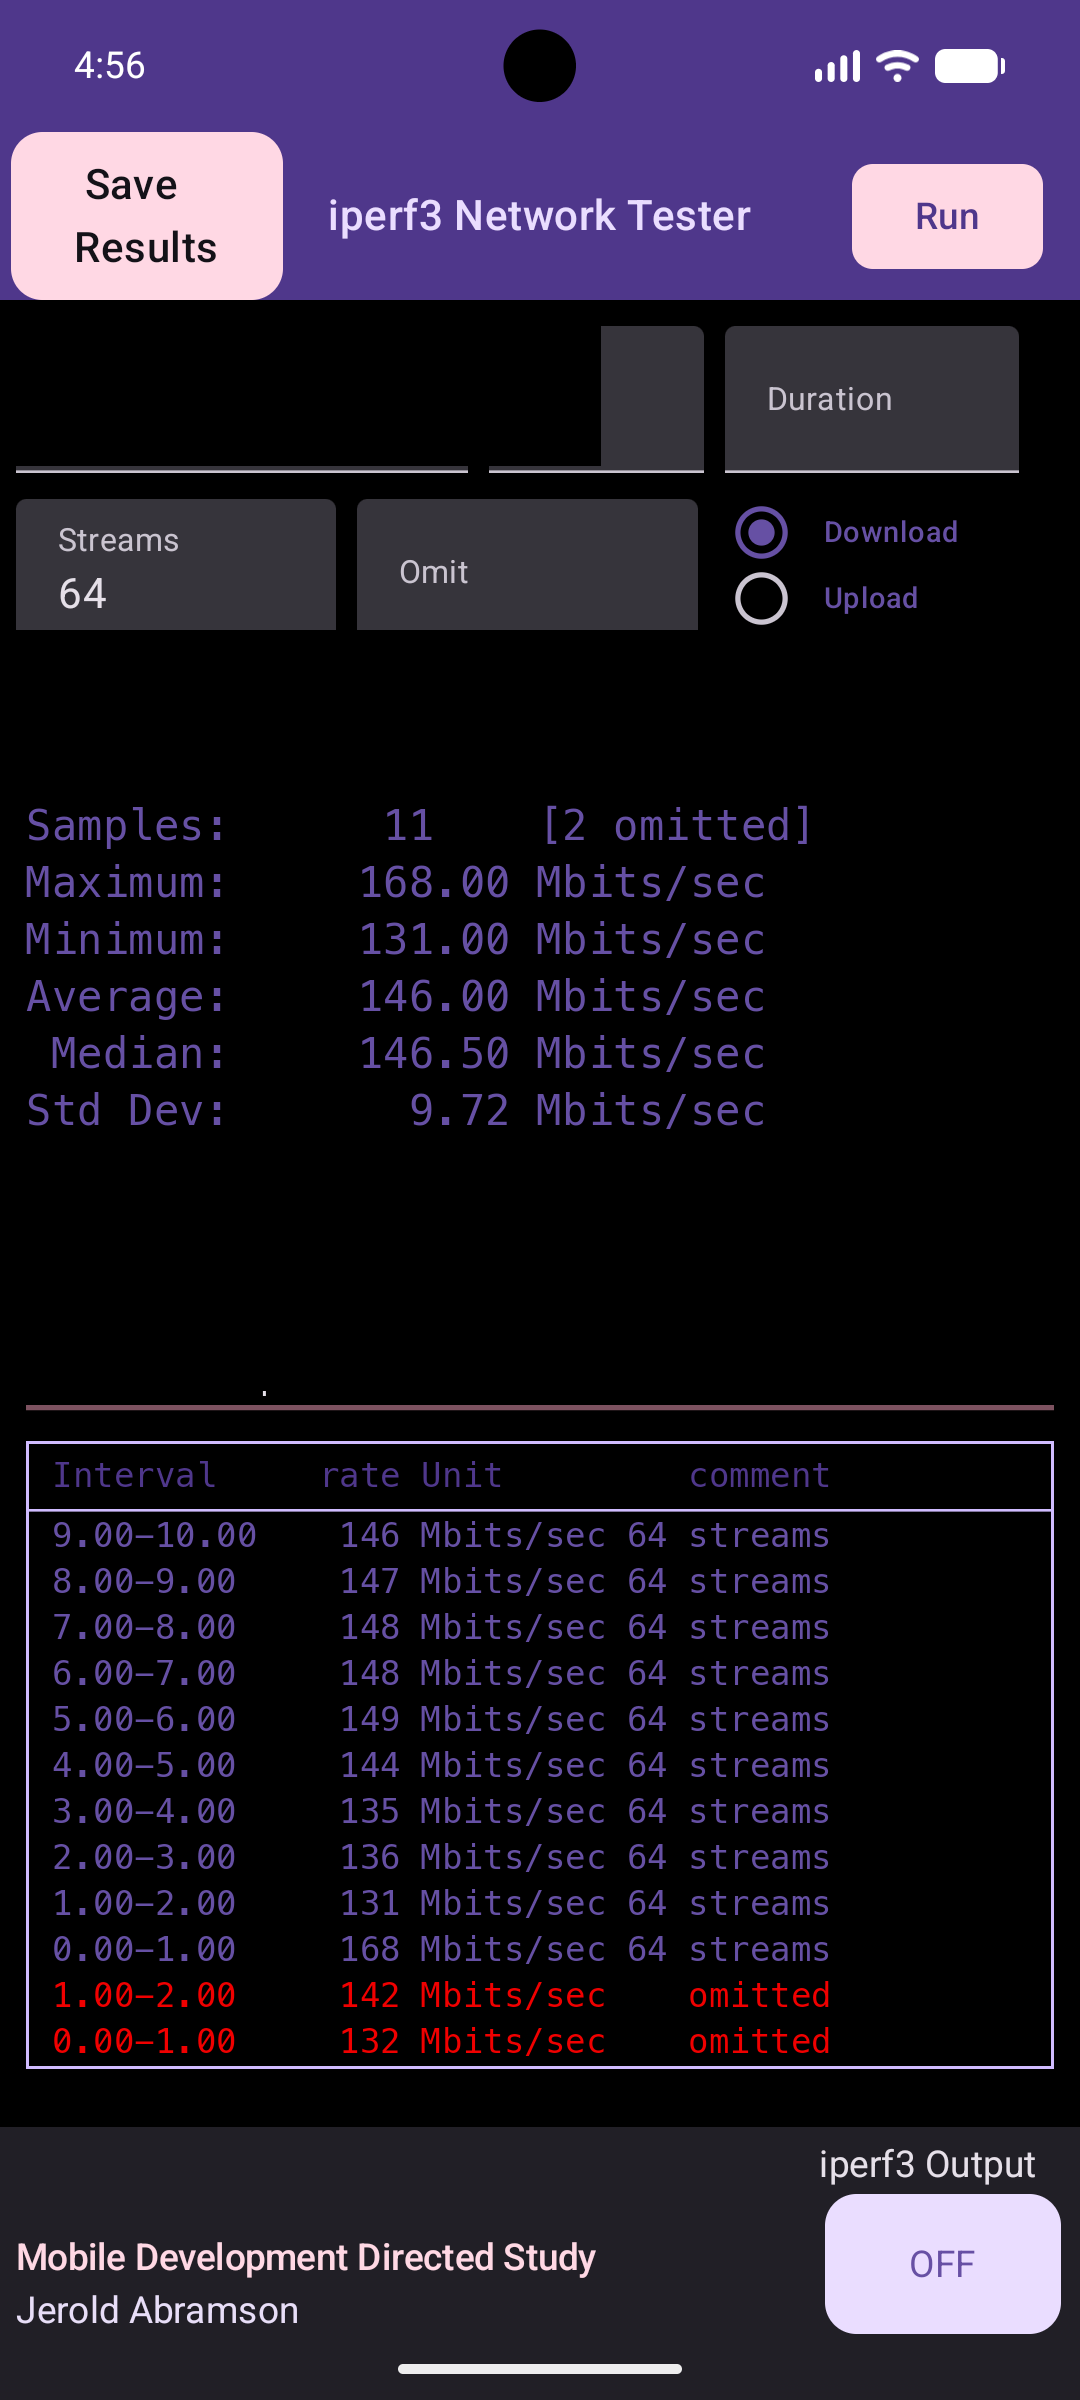
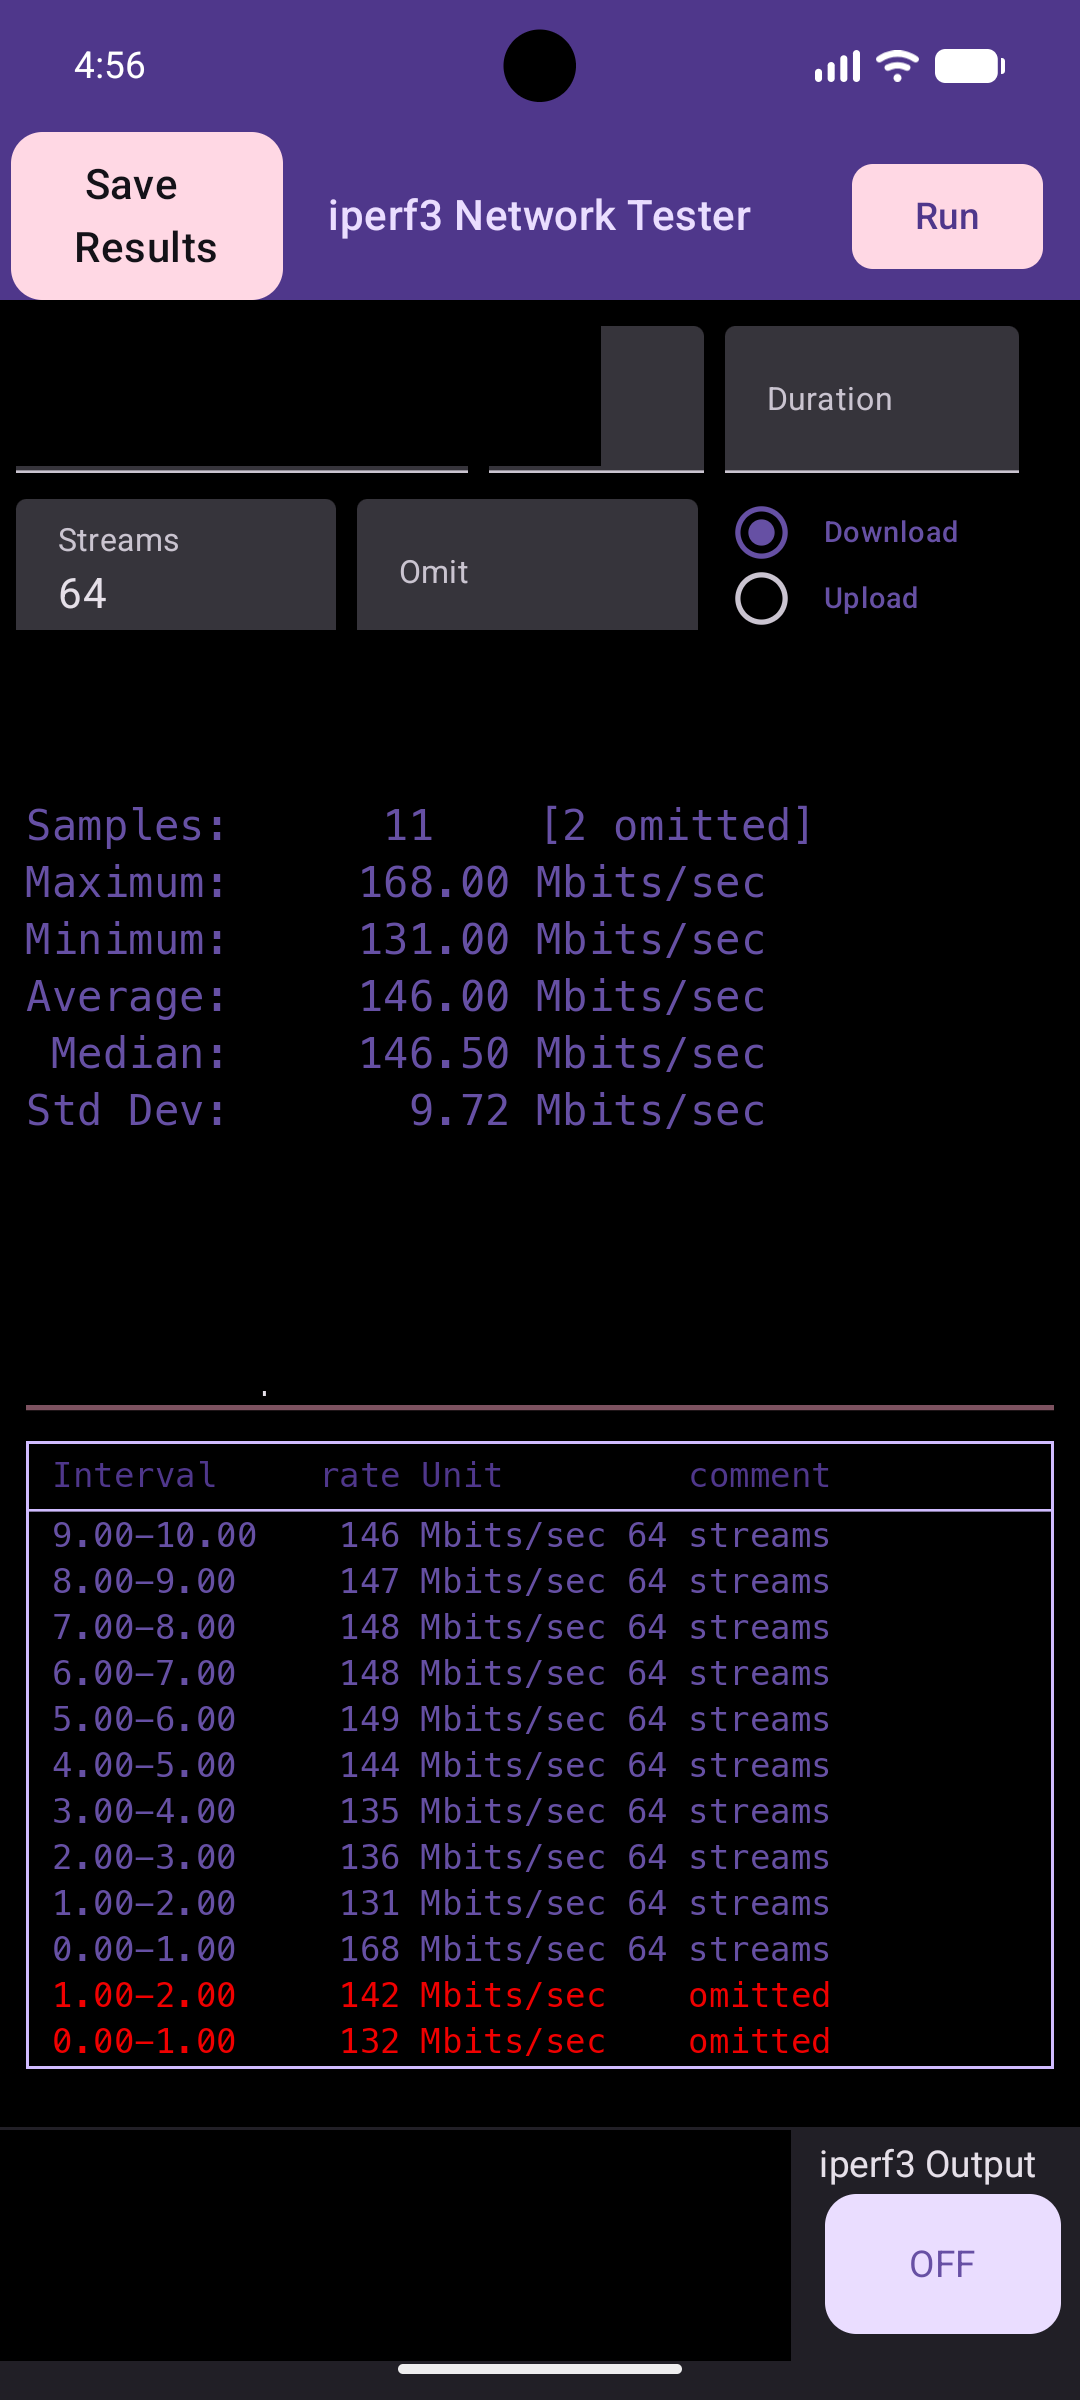
Fix missed redaction + update clone URLs for the iperf3-kmp repo name
- long_startup_delay.png still had the 'Mobile Development Directed Study' /
  'Jerold Abramson' footer visible in the previous commit — missed when the
  other two phone screenshots got that box. Regenerated deterministically
  from the pristine pre-redaction original with all four boxes applied,
  verified clean (independently re-verified the other three committed
  images too — confirmed clean, no PII found).
- README.md / CLAUDE.md: clone instructions now point at iperf3-kmp, the
  chosen public repo name (the existing private repo already holds
  iperf3KMP under this account).

Claude-Session: https://claude.ai/code/session_01SfYkEuoZXtGKoSvhMKi2Kj

Changed region(s): [[0.0, 0.875, 0.7333, 1.0]]

diff --git a/README.md b/README.md
@@ -4,8 +4,8 @@
 
 **Quick recipe — clone to running app on a fresh Linux machine:**
 ```shell
-git clone https://github.com/<your-username>/iperf3KMP
-cd iperf3KMP/
+git clone https://github.com/<your-username>/iperf3-kmp
+cd iperf3-kmp/
 ```
 * (or clone with `git clone --recursive` to get it in one step).
 
@@ -130,11 +130,11 @@ This repository is **public**. Clone it with either protocol; you only need your
 
 * **SSH (recommended for interactive/day-to-day use):** add your own SSH public key under [github.com/settings/keys](https://github.com/settings/keys), then (replace `<your-username>` with the account that hosts this repo):
   ```shell
-  git clone git@github.com:<your-username>/iperf3KMP.git
+  git clone git@github.com:<your-username>/iperf3-kmp.git
   ```
 * **HTTPS (no token needed for public reads):** clone anonymously, or use a [credential helper](https://git-scm.com/docs/gitcredentials) when you push. For CI on a private fork, generate your own fine-grained token ([github.com/settings/personal-access-tokens](https://github.com/settings/personal-access-tokens)) scoped to that fork with `Contents: Read-only`:
   ```shell
-  git clone https://<your-own-token>@github.com/<your-username>/iperf3KMP.git
+  git clone https://<your-own-token>@github.com/<your-username>/iperf3-kmp.git
   ```
 * **No command line:** browse/download from github.com in a browser, or use `gh auth login` (GitHub CLI) for a browser-based login.
 

diff --git a/CLAUDE.md b/CLAUDE.md
@@ -135,8 +135,8 @@ Desktop packaging goes through Compose Multiplatform's `compose.desktop.applicat
 
 **Quick recipe — clone to running app on a fresh Linux machine:**
 ```
-git clone https://github.com/<your-username>/iperf3KMP
-cd iperf3KMP/
+git clone https://github.com/<your-username>/iperf3-kmp
+cd iperf3-kmp/
 git submodule update --init --recursive
 ./gradlew :desktopApp:packageDeb
 sudo apt install ./desktopApp/build/compose/binaries/main/deb/iperf3kmp_1.0.0_amd64.deb
